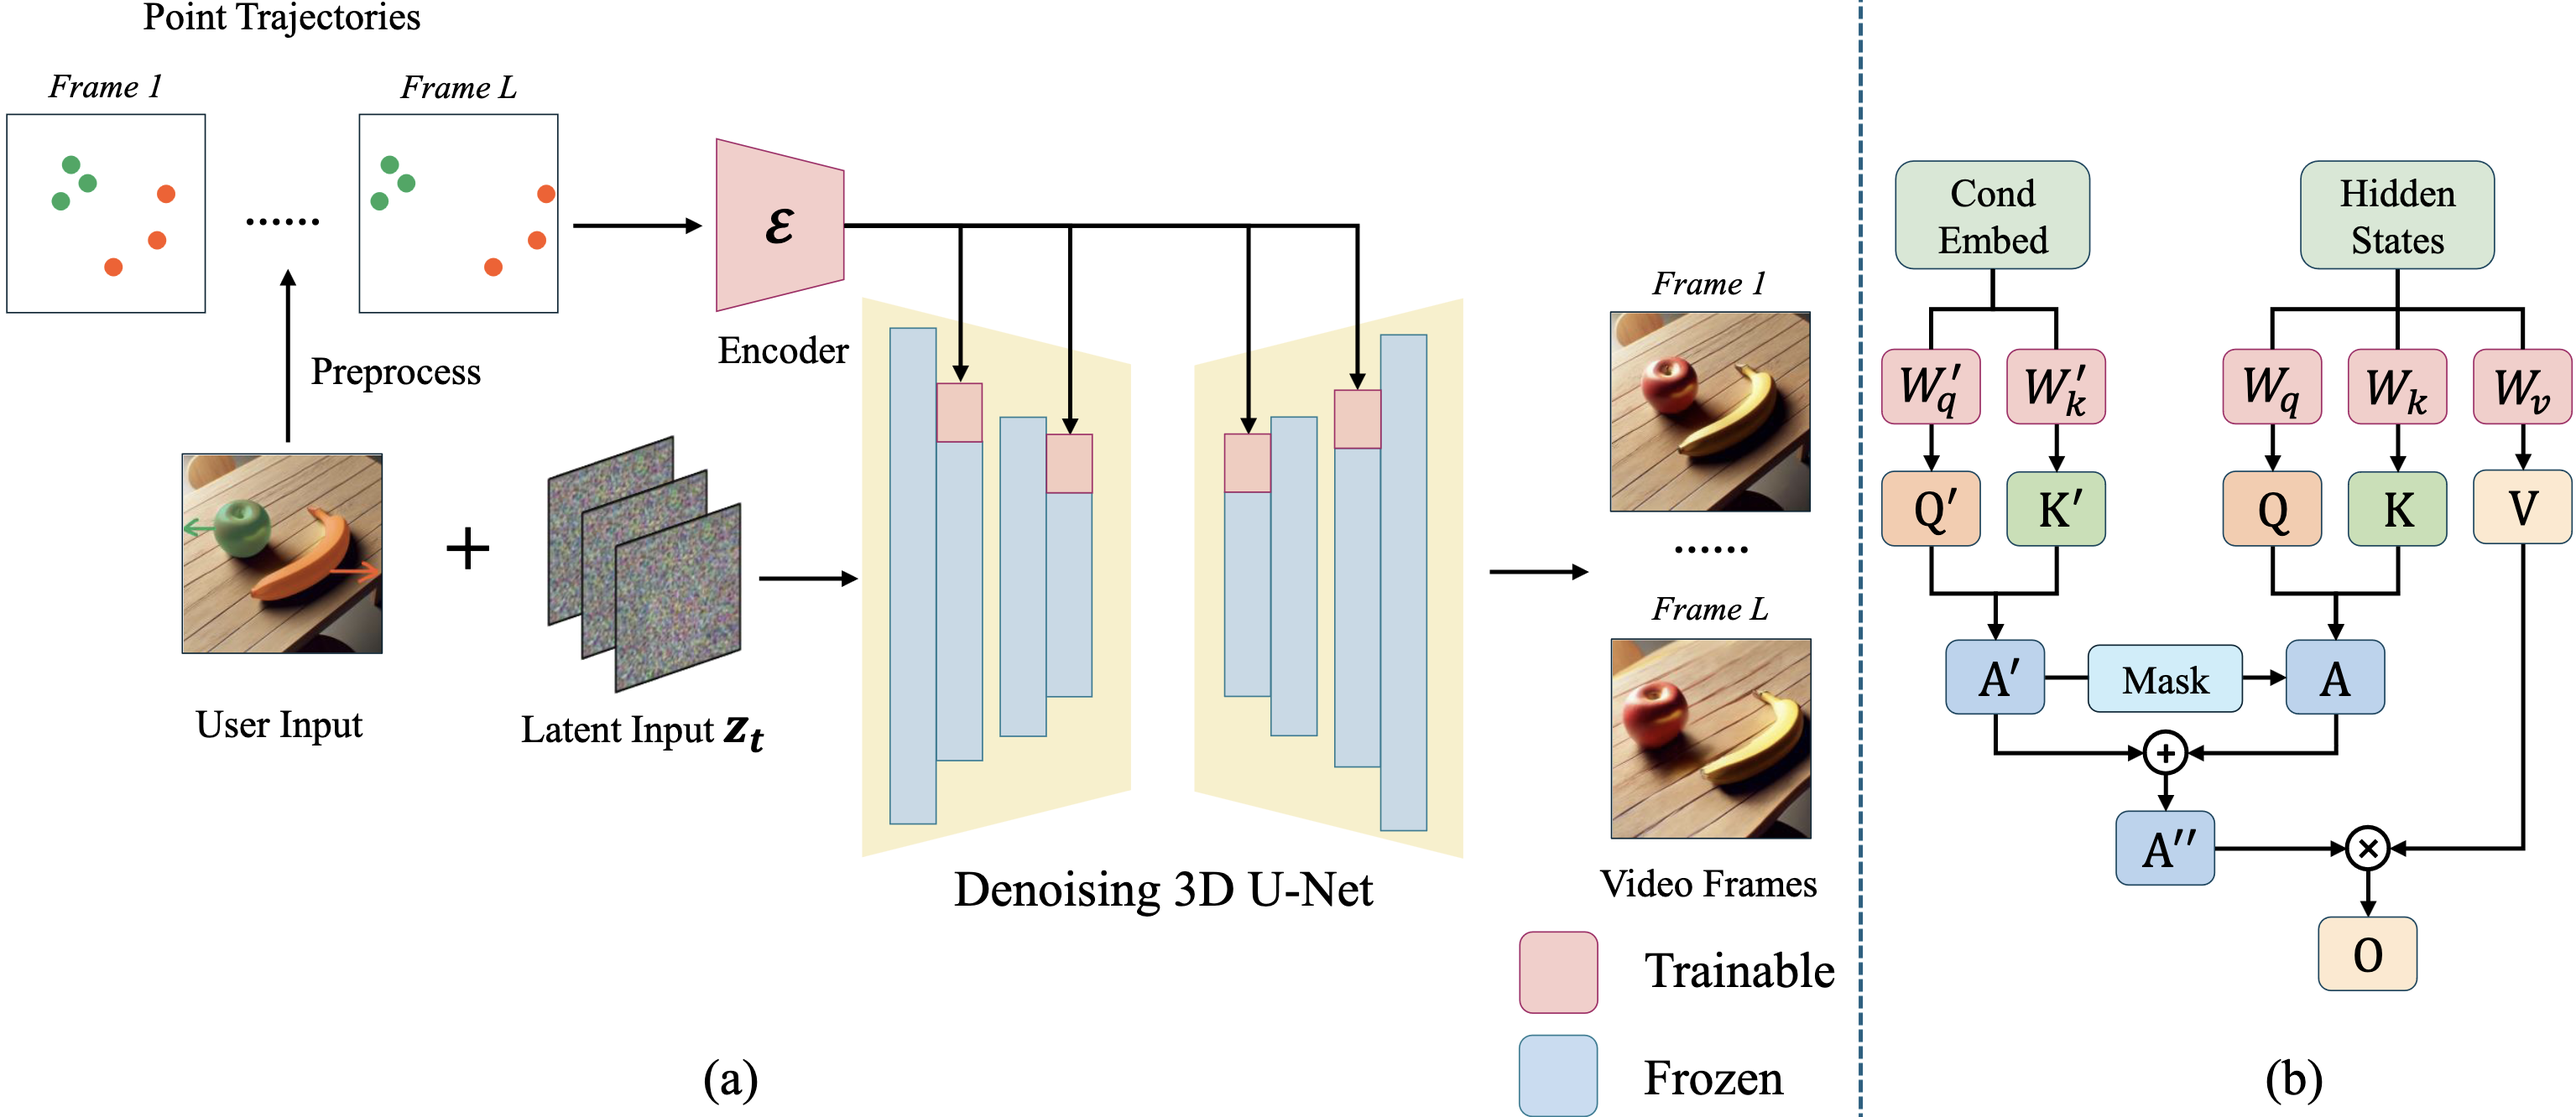
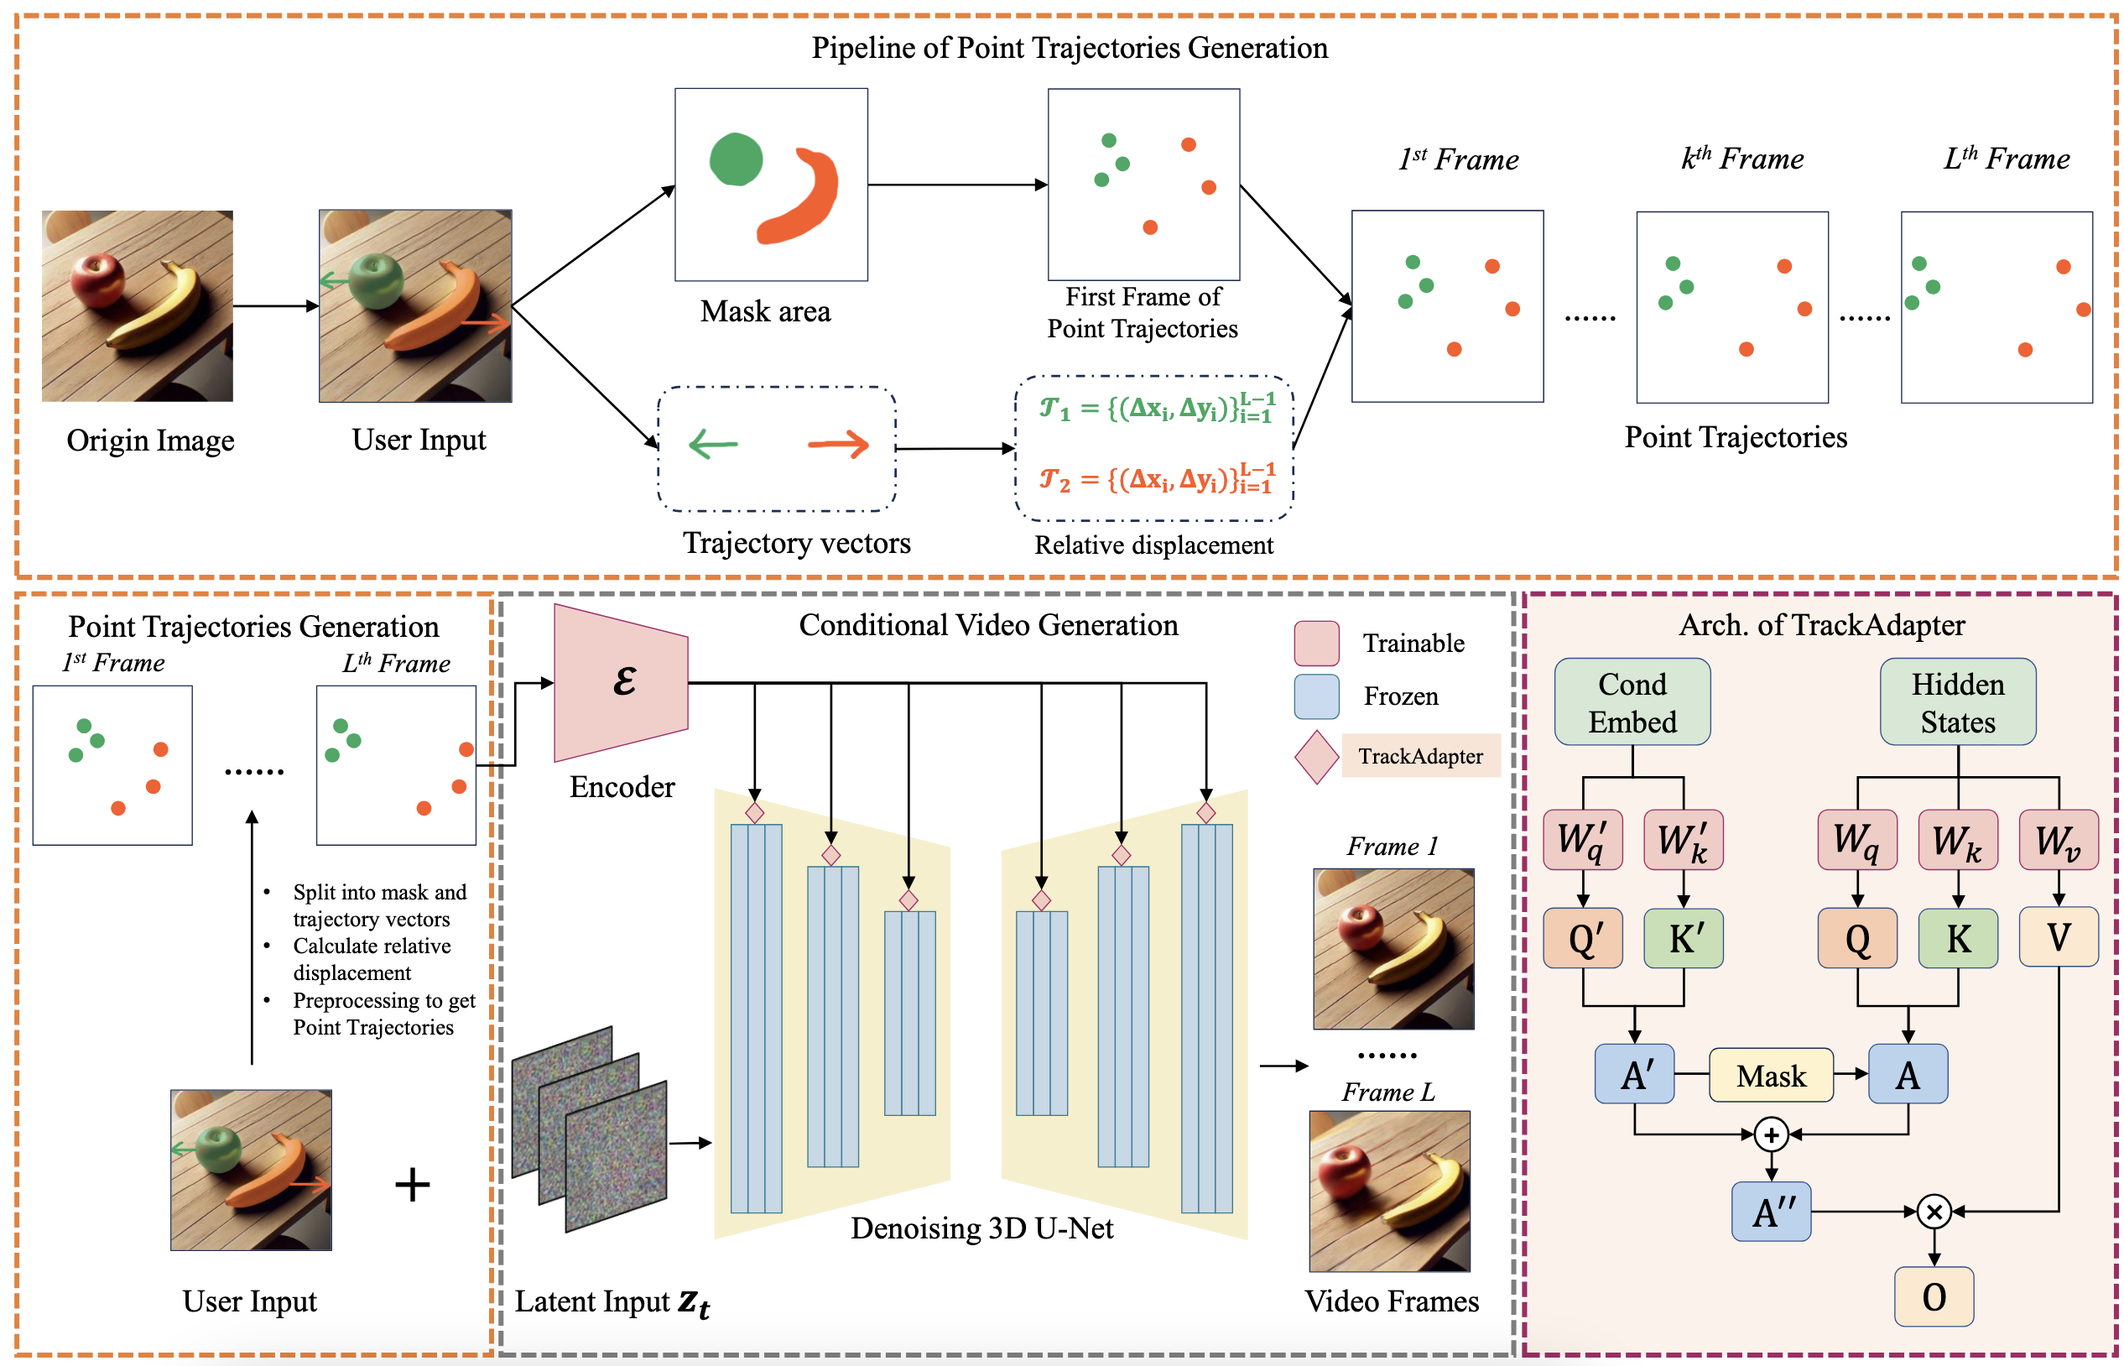
fix: imgs and abs

diff --git a/index.html b/index.html
@@ -146,7 +146,10 @@
         <figure class="figure" style="width: 70%; height: auto;">
             <img src="assets/beautiful_teaser.png" class="img-thumbnail figure-img img-fluid rounded"
                  alt="beautiful teaser">
-            <figcaption class="figure-caption">Example videos generated by our proposed approach, <i>TrackGo</i>.Our model achieves precise control in complex scenarios, such as those involving multiple objects, fine-grained object parts, and sophisticated moving trajectories.</figcaption>
+            <figcaption class="figure-caption">
+                Example videos generated by our proposed <i>TrackGo</i>.
+                Given an initial frame, users specify the target moving object(s) or part(s) using free-form masks and indicate the desired movement trajectory with arrows. TrackGo is capable of generating subsequent video frames with precise control. It can handle complex scenarios that involve multiple objects, fine-grained object parts, and sophisticated movement trajectories.
+            </figcaption>
         </figure>
     </div>
 
@@ -159,13 +162,12 @@
         <div class="card-body">
             <h2 class="card-title text-center card-title-margin">Abstract</h2>
             <p class="card-text">
-                Recent advances in diffusion-based controllable video generation have achieved motion control for single or multiple objects. However, accurate control in complex scenarios remains challenging, particularly for fine-grained object parts, sophisticated moving trajectories, and coherent background movement.
-                In this paper, we introduce <i>TrackGo</i>, a novel approach that utilizes simple yet effective point trajectories for enhanced motion control. 
-                Specifically, we propose leveraging arrows and masks to control the movement of objects, offering a more flexible and precise method of control.
-                Our method extracts trajectory-based condition features for control points, which are generated from these user-defined inputs.
-                We also propose TrackAdapter, an efficient and lightweight adapter that can be seamlessly integrated into existing temporal attention modules.
-                TrackAdapter can precisely activate the moving regions of the target object(s) or part(s) within the attention maps, guided by the control inputs.
-                Our experiments demonstrate that <i>TrackGo</i> achieves state-of-the-art performance on FVD, FID and ObjMC scores.
+                Recent years have seen substantial progress in diffusion-based controllable video generation. 
+                However, achieving precise control in complex scenarios, including fine-grained object parts, sophisticated motion trajectories, and coherent background movement, remains a challenge. 
+                In this paper, we introduce <i>TrackGo</i>, a novel approach that leverages free-form masks and arrows for conditional video generation. 
+                This method offers users with a flexible and precise mechanism for manipulating video content. 
+                We also propose the <i>TrackAdapter</i> for control implementation, an efficient and lightweight adapter designed to be seamlessly integrated into the temporal self-attention layers of a pretrained video generation model. This design leverages our observation that the attention map of these layers can accurately activate regions corresponding to motion in videos.
+                Our experimental results demonstrate that our new approach, enhanced by the TrackAdapter, achieves state-of-the-art performance on key metrics such as FVD, FID, and ObjMC scores.
             </p>
         </div>
     </div>
@@ -206,25 +208,43 @@
             <div class="text-center">
                 <figure class="figure" style="width: 70%; height: auto;">
                     <img src="assets/arch.png" class="figure-img img-fluid rounded" alt="method">
-                    <figcaption class="figure-caption">(a) <b>Overview of TrackGo.</b> TrackGo generates videos by taking user input image 
-                        <math xmlns="http://www.w3.org/1998/Math/MathML"><mi>𝐈</mi></math>
-                       and latent input 
+                    <figcaption class="figure-caption">
+                        <b>Top: Pipeline of Point Trajectories Generation.</b> User's inputs are divided into masks and trajectory vectors for processing. Each mask corresponds to a trajectory vector. For each mask area,  
+                        <math xmlns="http://www.w3.org/1998/Math/MathML">
+                            <mi>K</mi>
+                            <mo>*</mo>
+                            <mi>s</mi>
+                        </math>
+                        points are randomly selected. The trajectory vector is then subdivided by the frame number to attain the relative displacement
                        <math xmlns="http://www.w3.org/1998/Math/MathML">
+                          <mi>𝒯</mi>
+                       </math>
+                      of each point between frames between adjacent frames. The final step is to combine this relevant data to construct point trajectories.
+                      <b>Bottom: Overview of TrackGo.</b>
+                      TrackGo generates videos by taking user input
+                      <math xmlns="http://www.w3.org/1998/Math/MathML"><mi>𝐈</mi></math>
+                      and latent input
+                      <math xmlns="http://www.w3.org/1998/Math/MathML">
                         <msub>
                           <mi>𝐳</mi>
                           <mi>𝐭</mi>
                         </msub>
                       </math>
-                     as inputs based on an image-to-video diffusion model. By the preprocessing, point trajectories
+                     as inputs based on an image-to-video diffusion model.
+                     Through the pipeline of point trajectories generation, point trajectories
                      <math xmlns="http://www.w3.org/1998/Math/MathML">
                         <mi>𝐏</mi>
                       </math>
                      can be obtained from 
                      <math xmlns="http://www.w3.org/1998/Math/MathML"><mi>𝐈</mi></math>
-                     . After
+                     . Then the point trajectories 
                      <math xmlns="http://www.w3.org/1998/Math/MathML"><mi>𝐏</mi></math>
-                     passes through the Encoder, it is injected into the model as a condition embed and processed by the TrackAdapter. 
-                     (b) The calculation process of temporal self-attention with TrackAdapter.
+                     are passed through the Encoder 
+                     <math xmlns="http://www.w3.org/1998/Math/MathML">
+                        <mi>ℰ</mi>
+                     </math>
+                     and injected into the model via the TrackAdapter.
+                     <b>Architecture of TrackAdapter</b> describes the calculation process of TrackAdapter.
                     </figcaption>
                 </figure>
             </div>
@@ -248,9 +268,6 @@
 		  <div class="img-txt">
 			<img src="assets/lanche.gif" alt="图片">
 			<!-- <p>Case D</p> -->
-		  </div>
-		  <div class="img-txt">
-			<img src="assets/lake.gif" alt="图片">
 		  </div>
       </div>
 
